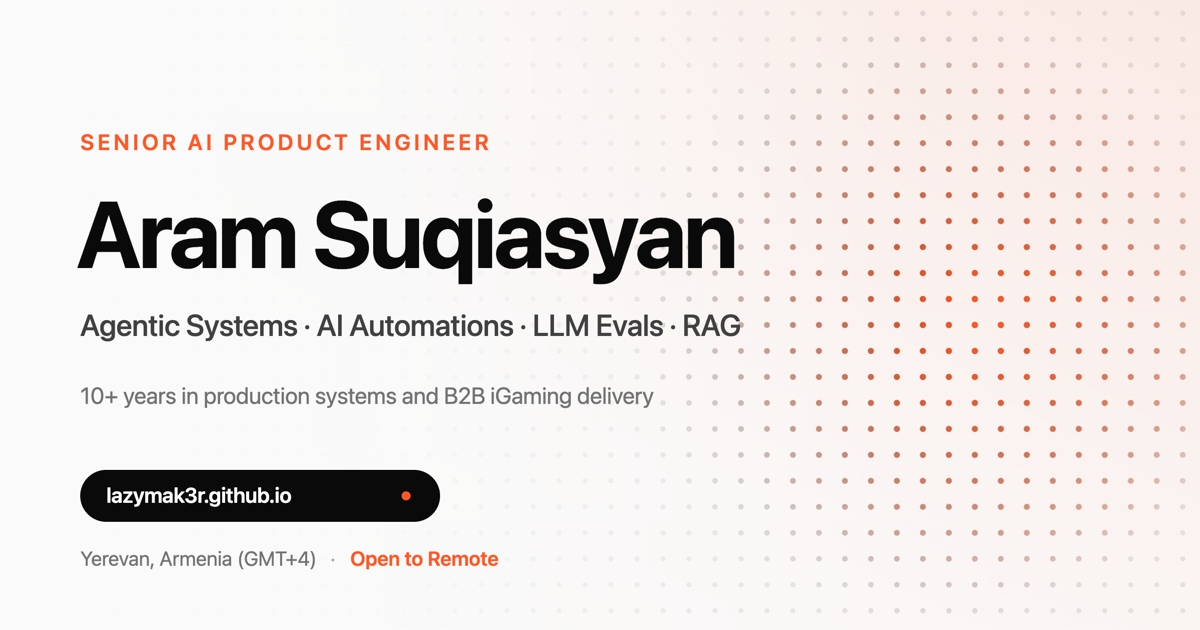
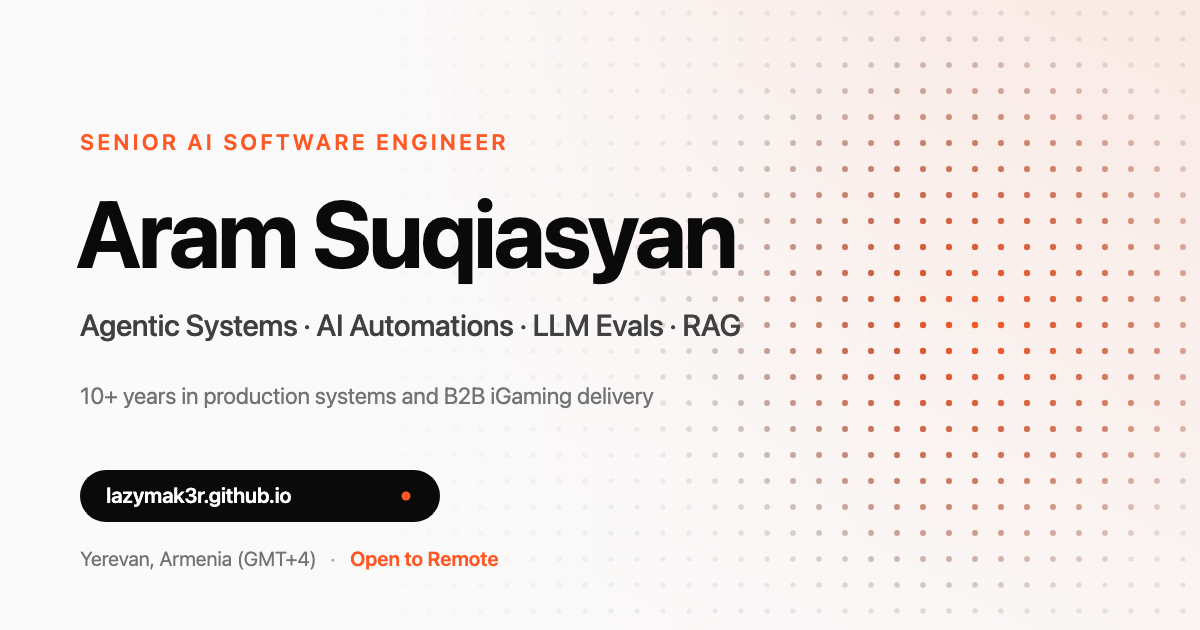
feat: add MeloMusic app, retitle to Senior AI Software Engineer
Rename Product Engineer -> Software Engineer across meta tags, JSON-LD,
llms.txt, manifest, OG image and copy; re-render og-image.png and bump
its cache-buster. Add MeloMusic to the shipped-apps list with its icon
and App Store link. Includes a Prettier format pass.

diff --git a/index.html b/index.html
@@ -9,37 +9,37 @@
     <link rel="manifest" href="/site.webmanifest?v=2"/>
     <meta name="viewport" content="width=device-width, initial-scale=1.0"/>
     <meta name="description"
-          content="Aram Suqiasyan - Senior AI Product Engineer specializing in agentic systems, AI automations, LLM evals and RAG. 10+ years in production systems and B2B iGaming platform delivery."/>
+          content="Aram Suqiasyan - Senior AI Software Engineer specializing in agentic systems, AI automations, LLM evals and RAG. 10+ years in production systems and B2B iGaming platform delivery."/>
     <meta name="theme-color" content="#fafafa"/>
     <meta name="author" content="Aram Suqiasyan"/>
     <meta name="robots" content="index, follow, max-image-preview:large"/>
     <meta name="keywords"
-          content="AI Engineer, AI Product Engineer, Agentic Systems, LLM Evaluation, LLM-as-Judge, RAG, Retrieval Augmented Generation, MCP, Model Context Protocol, Multi-Agent Orchestration, Prompt Engineering, Python, TypeScript, iGaming, Fintech, Yerevan, Remote"/>
+          content="AI Engineer, AI Software Engineer, Agentic Systems, LLM Evaluation, LLM-as-Judge, RAG, Retrieval Augmented Generation, MCP, Model Context Protocol, Multi-Agent Orchestration, Prompt Engineering, Python, TypeScript, iGaming, Fintech, Yerevan, Remote"/>
     <link rel="canonical" href="https://lazymak3r.github.io/"/>
-    <title>Aram Suqiasyan - Senior AI Product Engineer</title>
+    <title>Aram Suqiasyan - Senior AI Software Engineer</title>
 
     <meta property="og:type" content="website"/>
     <meta property="og:url" content="https://lazymak3r.github.io/"/>
-    <meta property="og:title" content="Aram Suqiasyan - Senior AI Product Engineer"/>
+    <meta property="og:title" content="Aram Suqiasyan - Senior AI Software Engineer"/>
     <meta property="og:description"
-          content="Aram Suqiasyan - Senior AI Product Engineer specializing in agentic systems, AI automations, LLM evals and RAG. 10+ years in production systems and B2B iGaming platform delivery."/>
-    <meta property="og:image" content="https://lazymak3r.github.io/og-image.png?v=2"/>
+          content="Aram Suqiasyan - Senior AI Software Engineer specializing in agentic systems, AI automations, LLM evals and RAG. 10+ years in production systems and B2B iGaming platform delivery."/>
+    <meta property="og:image" content="https://lazymak3r.github.io/og-image.png?v=3"/>
     <meta property="og:image:type" content="image/png"/>
     <meta property="og:image:width" content="1200"/>
     <meta property="og:image:height" content="630"/>
     <meta property="og:image:alt"
-          content="Aram Suqiasyan - Senior AI Product Engineer. Agentic Systems, AI Automations, LLM Evals and RAG."/>
+          content="Aram Suqiasyan - Senior AI Software Engineer. Agentic Systems, AI Automations, LLM Evals and RAG."/>
     <meta property="og:site_name" content="Aram Suqiasyan"/>
     <meta property="og:locale" content="en_US"/>
 
     <meta name="twitter:card" content="summary_large_image"/>
     <meta name="twitter:url" content="https://lazymak3r.github.io/"/>
-    <meta name="twitter:title" content="Aram Suqiasyan - Senior AI Product Engineer"/>
+    <meta name="twitter:title" content="Aram Suqiasyan - Senior AI Software Engineer"/>
     <meta name="twitter:description"
-          content="Aram Suqiasyan - Senior AI Product Engineer specializing in agentic systems, AI automations, LLM evals and RAG. 10+ years in production systems and B2B iGaming platform delivery."/>
-    <meta name="twitter:image" content="https://lazymak3r.github.io/og-image.png?v=2"/>
+          content="Aram Suqiasyan - Senior AI Software Engineer specializing in agentic systems, AI automations, LLM evals and RAG. 10+ years in production systems and B2B iGaming platform delivery."/>
+    <meta name="twitter:image" content="https://lazymak3r.github.io/og-image.png?v=3"/>
     <meta name="twitter:image:alt"
-          content="Aram Suqiasyan - Senior AI Product Engineer. Agentic Systems, AI Automations, LLM Evals and RAG."/>
+          content="Aram Suqiasyan - Senior AI Software Engineer. Agentic Systems, AI Automations, LLM Evals and RAG."/>
     <meta name="twitter:creator" content="@AramSuqiasyan97"/>
 
     <script type="application/ld+json">
@@ -51,8 +51,8 @@
             "image": "https://lazymak3r.github.io/og-image.png",
             "email": "aramsuqiasyan20@gmail.com",
             "telephone": "+374 94 740478",
-            "jobTitle": "Senior AI Product Engineer",
-            "description": "Senior product engineer with 10+ years in production systems and B2B iGaming platform delivery, now building LLM automations and agentic systems with a strong focus on evals and RAG.",
+            "jobTitle": "Senior AI Software Engineer",
+            "description": "Senior software engineer with 10+ years in production systems and B2B iGaming platform delivery, now building LLM automations and agentic systems with a strong focus on evals and RAG.",
             "address": {
                 "@type": "PostalAddress",
                 "addressLocality": "Yerevan",

diff --git a/src/components/sections/About.tsx b/src/components/sections/About.tsx
@@ -5,6 +5,7 @@ import trakioImg from '../../assets/images/trakio.png';
 import melomanImg from '../../assets/images/meloman.png';
 import localingoImg from '../../assets/images/localingo.png';
 import musicdropImg from '../../assets/images/musicdrop.png';
+import melomusicImg from '../../assets/images/melomusic.png';
 import appStoreBadge from '../../assets/images/download_on_the_app_store.svg';
 import telegramBadge from '../../assets/images/open_in_telegram.svg';
 import playStoreBadge from '../../assets/images/get_It_on_google_play.svg';
@@ -56,6 +57,16 @@ const myApps = [
     appStore:
       'https://apps.apple.com/us/app/meloman-music-quiz-challenge/id6759525943',
     playStore: 'https://play.google.com/store/apps/details?id=com.meloman',
+  },
+  {
+    name: 'MeloMusic',
+    tagline: 'Music & Playlists',
+    description:
+      'Offline music player and library manager on the App Store, built on React Native 0.86 with the New Architecture. Downloads and stores tracks locally for playback with background audio and lock-screen controls, imports from Dropbox over OAuth with PKCE, and organises everything into playlists with ID3 metadata and artwork parsing. Ships in English, Russian, and Armenian with light, dark, and system themes.',
+    icon: melomusicImg,
+    iconBg: null,
+    appStore:
+      'https://apps.apple.com/us/app/melomusic-music-playlists/id6801933898',
   },
   {
     name: 'Localingo',
@@ -110,7 +121,7 @@ export function About() {
             className="space-y-5"
           >
             <p className="text-text-secondary leading-relaxed">
-              Senior product engineer with 10+ years in production systems and
+              Senior software engineer with 10+ years in production systems and
               B2B iGaming platform delivery, now building LLM automations and
               agentic systems with a strong focus on evals and RAG.
             </p>
@@ -190,7 +201,7 @@ export function About() {
                     Aram Suqiasyan
                   </h3>
                   <p className="text-brand-soft text-sm mt-1 text-balance">
-                    Senior AI Product Engineer - Agentic Systems, AI
+                    Senior AI Software Engineer - Agentic Systems, AI
                     Automations, LLM Evals and RAG
                   </p>
                 </div>
@@ -288,7 +299,11 @@ export function About() {
                         className="inline-flex h-9 items-center gap-1.5 rounded-lg border border-[var(--color-n950)] bg-[var(--color-n950)] px-3 text-white"
                         style={{transformOrigin: 'center'}}
                       >
-                        <GlobeIcon size={21} weight="regular" className="shrink-0" />
+                        <GlobeIcon
+                          size={21}
+                          weight="regular"
+                          className="shrink-0"
+                        />
                         <span className="flex flex-col leading-none text-left">
                           <span className="text-[8px] tracking-[0.08em] uppercase opacity-70">
                             Visit

diff --git a/src/data/aiSystems.ts b/src/data/aiSystems.ts
@@ -41,7 +41,11 @@ export const aiSystems: AiSystem[] = [
     title: 'RAG & Hybrid Retrieval',
     description:
       'Retrieval built on pgvector, Pinecone, LanceDB, and Chroma, combining dense embeddings with BM25 for hybrid ranking. Vector search over Postgres backing agent toolkits, so retrieval and relational state live in one queryable system rather than drifting apart.',
-    badges: ['pgvector & Pinecone', 'BM25 hybrid ranking', 'Vector + relational'],
+    badges: [
+      'pgvector & Pinecone',
+      'BM25 hybrid ranking',
+      'Vector + relational',
+    ],
   },
   {
     color: brand.vivid,
@@ -49,7 +53,11 @@ export const aiSystems: AiSystem[] = [
     title: 'Guardrails, PII & Compliance',
     description:
       'Brand-safety, fact-verification, and SEO checks with structured-output validation before anything reaches a human approval gate - failed checks route back for regeneration rather than blocking the run. PII masked and tokenized before it reaches any model, so downstream services and analytics operate on tokenized references.',
-    badges: ['Schema validation', 'PII masking & tokenization', 'Fact verification'],
+    badges: [
+      'Schema validation',
+      'PII masking & tokenization',
+      'Fact verification',
+    ],
   },
   {
     color: brand.deep,
@@ -65,6 +73,10 @@ export const aiSystems: AiSystem[] = [
     title: 'Local & Fine-Tuned Models',
     description:
       'Open-weight models deployed locally with Ollama and on HuggingFace, fine-tuned with Tinker, plus in-browser inference running with zero external API calls. Local inference chosen deliberately where cost, latency, or data residency makes it the better trade-off than a hosted API.',
-    badges: ['Ollama & HuggingFace', 'Zero-egress inference', 'Cost & latency control'],
+    badges: [
+      'Ollama & HuggingFace',
+      'Zero-egress inference',
+      'Cost & latency control',
+    ],
   },
 ];

diff --git a/src/data/experience.ts b/src/data/experience.ts
@@ -55,7 +55,7 @@ export const experiences: Experience[] = [
   {
     id: 2,
     company: 'CAIAT.US',
-    role: 'Principal AI Product Engineer, Contract',
+    role: 'Principal AI Software Engineer, Contract',
     period: 'June 2024 - Present',
     type: 'contract',
     description: 'Delivery engineer across client AI platform engagements.',
@@ -124,7 +124,7 @@ export const experiences: Experience[] = [
   {
     id: 3,
     company: 'brandwise.ai',
-    role: 'Founding AI Product Engineer - Remote',
+    role: 'Founding AI Software Engineer - Remote',
     period: 'Aug 2023 - May 2024',
     type: 'full-time',
     description:
@@ -219,7 +219,14 @@ export const experiences: Experience[] = [
     type: 'full-time',
     description:
       'Led a cross-functional frontend team building a global corporate fitness and wellness platform that scaled to hundreds of thousands of active users. Established frontend architecture standards, shared component libraries, and code review processes that measurably reduced regression rates and shortened onboarding for new engineers. Drove React Native mobile development alongside the web product, delivering cross-platform feature parity across iOS and Android, and partnered directly with product managers and designers to translate UX requirements into performant, accessible implementations.',
-    technologies: ['React', 'React Native', 'Redux', 'TypeScript', 'iOS', 'Android'],
+    technologies: [
+      'React',
+      'React Native',
+      'Redux',
+      'TypeScript',
+      'iOS',
+      'Android',
+    ],
     projects: [
       {
         name: 'inKin Mobile App',

diff --git a/src/components/sections/AiSystems.tsx b/src/components/sections/AiSystems.tsx
@@ -11,12 +11,13 @@ export function AiSystems() {
             AI Engineering
           </p>
           <h2 className="font-display font-bold text-3xl md:text-4xl text-text-primary text-balance">
-            Agentic Systems, <span className="gradient-brand-text">Measured</span>
+            Agentic Systems,{' '}
+            <span className="gradient-brand-text">Measured</span>
           </h2>
           <p className="mt-4 text-text-secondary text-sm max-w-2xl mx-auto">
-            Generation-to-QA-to-publish workflows that run unattended at volume -
-            built on frontier models, with the evaluation and reliability layer
-            underneath.
+            Generation-to-QA-to-publish workflows that run unattended at volume
+            - built on frontier models, with the evaluation and reliability
+            layer underneath.
           </p>
         </div>
 

diff --git a/src/data/skills.ts b/src/data/skills.ts
@@ -70,7 +70,11 @@ export const skills: Skill[] = [
     category: 'AI & LLM Engineering',
   },
 
-  {id: 40, name: 'LLM-as-Judge', category: 'Evaluation, Safety & Observability'},
+  {
+    id: 40,
+    name: 'LLM-as-Judge',
+    category: 'Evaluation, Safety & Observability',
+  },
   {
     id: 41,
     name: 'Scoring Rubrics',
@@ -180,7 +184,11 @@ export const skills: Skill[] = [
     category: 'Backend & Reliability',
   },
   {id: 93, name: 'Idempotency', category: 'Backend & Reliability'},
-  {id: 94, name: 'Retry & Fallback Handling', category: 'Backend & Reliability'},
+  {
+    id: 94,
+    name: 'Retry & Fallback Handling',
+    category: 'Backend & Reliability',
+  },
   {
     id: 95,
     name: 'Rate-Limit Handling & Exponential Backoff',

diff --git a/src/components/layout/Footer.tsx b/src/components/layout/Footer.tsx
@@ -1,5 +1,9 @@
-
-import {GithubLogoIcon, LinkedinLogoIcon, TelegramLogoIcon, XLogoIcon} from '@phosphor-icons/react';
+import {
+  GithubLogoIcon,
+  LinkedinLogoIcon,
+  TelegramLogoIcon,
+  XLogoIcon,
+} from '@phosphor-icons/react';
 const socialLinks = [
   {
     label: 'GitHub',
@@ -33,7 +37,8 @@ export function Footer() {
               Aram Suqiasyan
             </p>
             <p className="text-text-muted text-sm">
-              Senior AI Product Engineer - Agentic Systems, AI Automations, LLM Evals and RAG
+              Senior AI Software Engineer - Agentic Systems, AI Automations, LLM
+              Evals and RAG
             </p>
           </div>
 

diff --git a/src/components/sections/Hero.tsx b/src/components/sections/Hero.tsx
@@ -87,7 +87,7 @@ export function Hero() {
               <span className="text-text-primary font-medium">
                 Aram Suqiasyan
               </span>
-              , a senior product engineer with 10+ years in production systems
+              , a senior software engineer with 10+ years in production systems
               and B2B iGaming delivery, now building LLM automations and agentic
               systems with a strong focus on evals and RAG - provider-native
               SDKs, custom MCP integrations, runtime fallback, and per-run cost

diff --git a/src/components/three/HeroScene.tsx b/src/components/three/HeroScene.tsx
@@ -41,7 +41,11 @@ export function HeroScene({mousePos}: HeroSceneProps) {
     >
       <ambientLight intensity={0.9} />
       <directionalLight position={[4, 6, 6]} intensity={2.2} color={ui.white} />
-      <directionalLight position={[-6, 2, 4]} intensity={1.1} color={ui.white} />
+      <directionalLight
+        position={[-6, 2, 4]}
+        intensity={1.1}
+        color={ui.white}
+      />
       <pointLight position={[-3, 1.5, 3]} intensity={5} color={brand.base} />
       <pointLight position={[3, -2, 2]} intensity={3} color={brand.faint} />
 

diff --git a/src/components/ui/ProjectCard.tsx b/src/components/ui/ProjectCard.tsx
@@ -8,8 +8,10 @@ import {springSnappy} from '../../lib/motion';
 import type {Project} from '../../data/experience';
 import {ArrowSquareOutIcon} from '@phosphor-icons/react';
 
-interface ProjectCardProps
-  extends Pick<Project, 'url' | 'appStore' | 'playStore' | 'telegram'> {
+interface ProjectCardProps extends Pick<
+  Project,
+  'url' | 'appStore' | 'playStore' | 'telegram'
+> {
   name: string;
   blurb?: string;
   company: string;

diff --git a/src/components/sections/Contact.tsx b/src/components/sections/Contact.tsx
@@ -1,7 +1,13 @@
 import {motion} from 'framer-motion';
 
 import {SectionWrapper} from '../ui/SectionWrapper';
-import {EnvelopeSimpleIcon, GithubLogoIcon, LinkedinLogoIcon, TelegramLogoIcon, XLogoIcon} from '@phosphor-icons/react';
+import {
+  EnvelopeSimpleIcon,
+  GithubLogoIcon,
+  LinkedinLogoIcon,
+  TelegramLogoIcon,
+  XLogoIcon,
+} from '@phosphor-icons/react';
 
 const socialLinks = [
   {

diff --git a/src/lib/motion.ts b/src/lib/motion.ts
@@ -24,7 +24,12 @@ export const springMomentum: Transition = {
   duration: 0.4,
 };
 
-export const easeStandard = [0.16, 1, 0.3, 1] as [number, number, number, number];
+export const easeStandard = [0.16, 1, 0.3, 1] as [
+  number,
+  number,
+  number,
+  number,
+];
 
 export function projectMomentum(
   initialVelocity: number,
